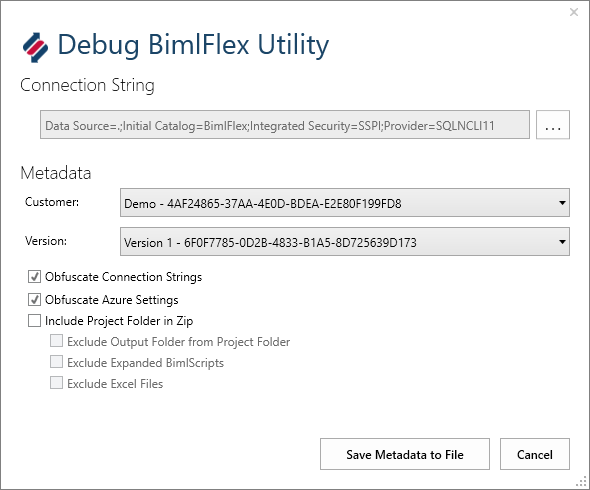
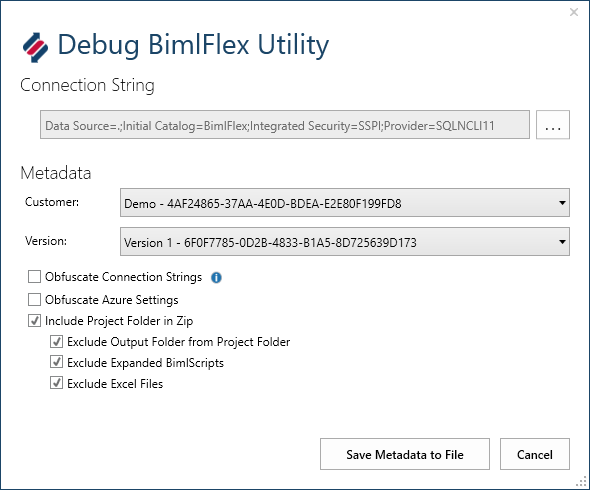
updated user guide documentation

diff --git a/bimlflex/user-guide/debug-utilities.md b/bimlflex/user-guide/debug-utilities.md
@@ -4,10 +4,20 @@ title: BimlFlex Debug Utilities
 ---
 # BimlFlex Debug Utilities
 
-Use the `Debug BimlFlex Utility` function to create a metadata and project file to send to Varigence BimlFlex support. This might be required in certain scenarios where the support team requires the project metadata and project files and extension points to be able to answer any questions
+Use the `Debug Utilities` function to create a metadata and project file to send to Varigence BimlFlex support. This might be required in certain scenarios where the support team requires the project metadata and project files and extension points to be able to answer any questions.
+
+To minimise the potential waiting period, and if possible, always include the metadata debug when opening a BimlFlex support case.
 
 ![BimlFlex Debug Utilities -center](images/bimlflex-ss-v5-debug-bimlflex-utility.png "BimlFlex Debug Utilities")
 
-Access the Debug BimlFlex Utility through the BimlFlex Ribbon tab in BimlStudio. Connect to the metadata database and choose the relevant Customer and Version. Check the `Include Project Folder in Zip` to also add the project files and extension points to the generated archive file.
+Access the Debug BimlFlex Utility through the BimlFlex Ribbon tab in BimlStudio. It will connect to the current projects BimlFlex metadata database.
+
+Choose the relevant Customer and Version.
+
+Check the `Include Project Folder in Zip` to also add the project files and extension points to the generated archive file.
+
+Check the Obfuscate options to obfuscate keys and passwords from the database connections and settings.
+
+Remove any other sensitive information before sending through email.
 
 Saving the metadata to file creates a zip file that can be sent to the BimlFlex enterprise support team.
